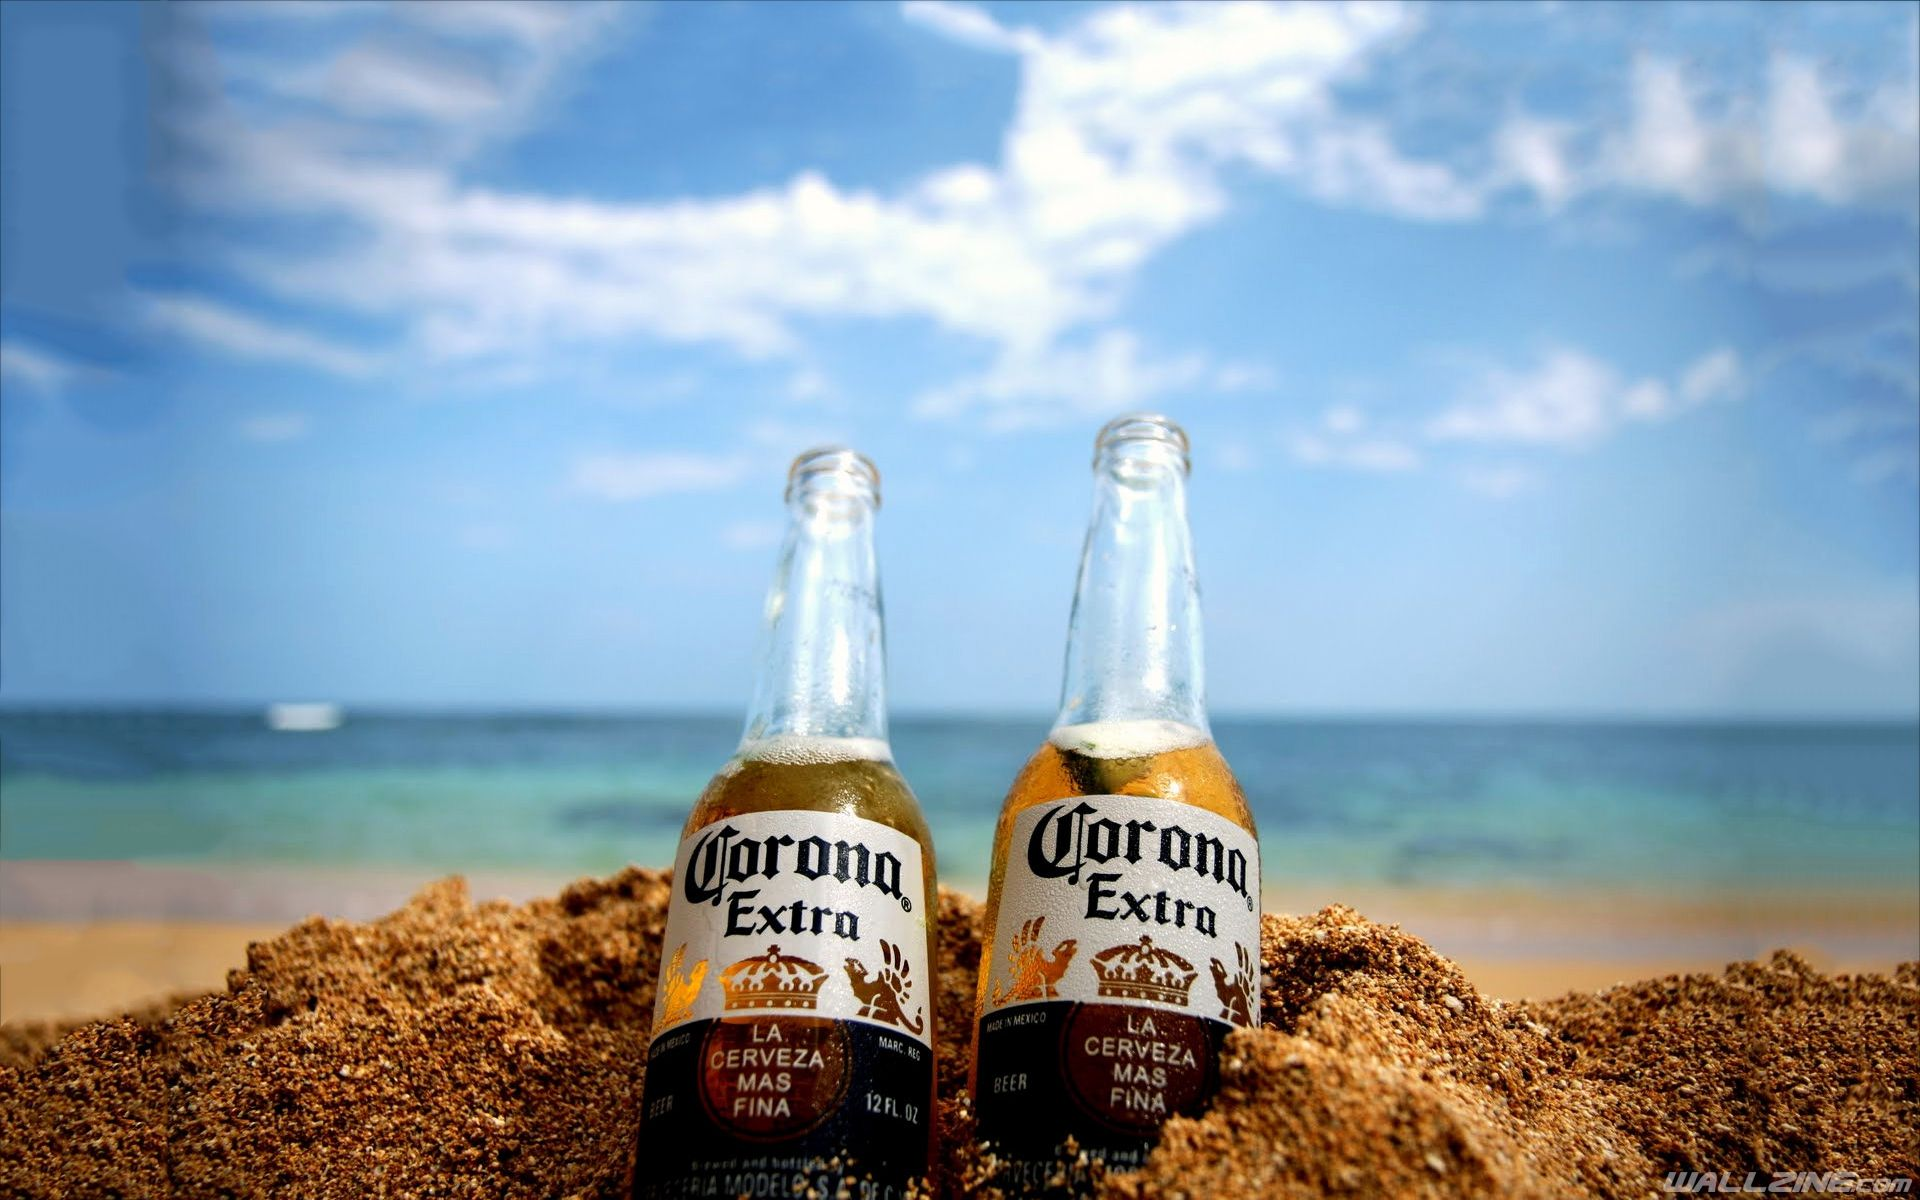
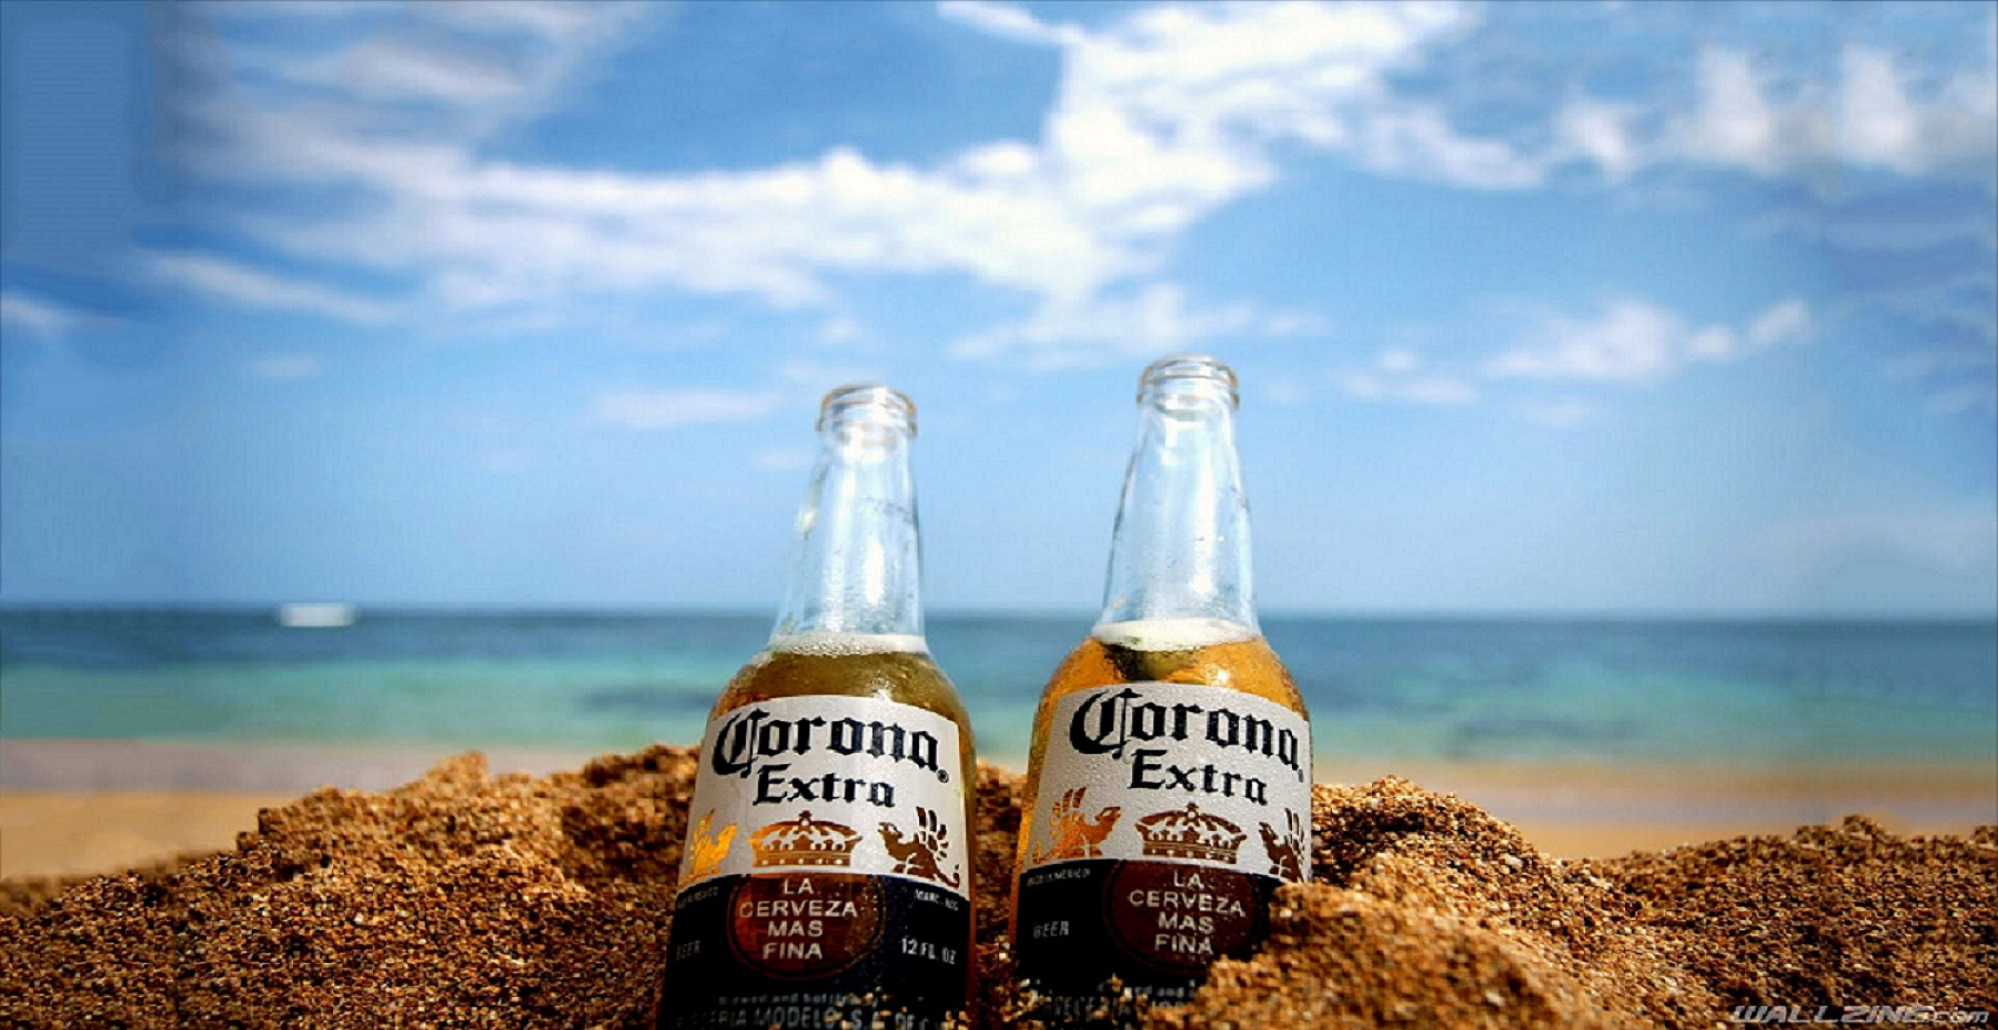
size change achtergrond

diff --git a/portfolio/Css/Coronastyle.css b/portfolio/Css/Coronastyle.css
@@ -1,8 +1,8 @@
 body {
     background-image: url("Coronabier.jpg");
-    margin: auto;
-    width: 100%;
-    height: 100%;
+    background-repeat: no-repeat;
+    background-size: 300px 100px;
+    
 }
 
 h1 {
